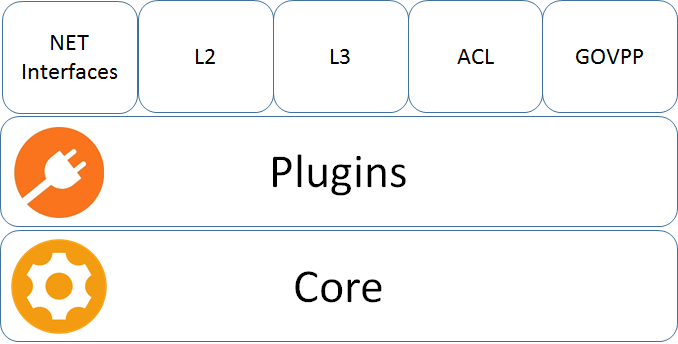
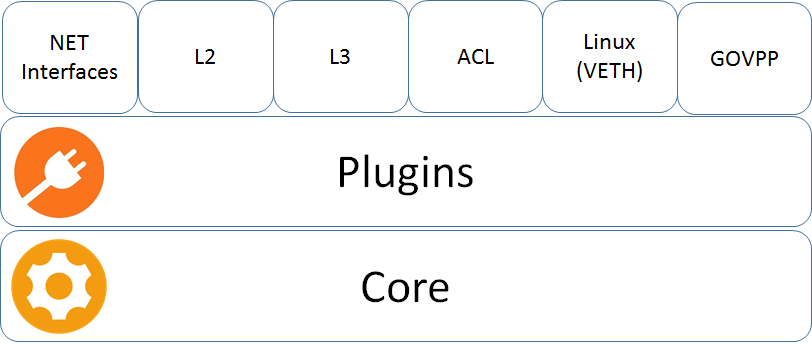
VPP Agent plugins - brief description

diff --git a/README.md b/README.md
@@ -16,11 +16,7 @@ If you are interested in contributing, please see the [contribution guidelines](
 
 # Architecture
 
-VPP Agent Plugins on top of cn-infra:
-
-![vpp agent plugins](vpp_agent_plugins.png "VPP Agent Plugins on top of cn-infra")
-
-10.000 feet architecture:
+## 10.000 feet architecture
 
 ![VPP agent 10.000 feet](vpp_agent_10K_feet.png "VPP Agent - 10.000 feet view on the architecture")
 
@@ -37,9 +33,19 @@ VPP Agent Plugins on top of cn-infra:
 * Non VPP VNF - non VPP containers can interact together with VPP containers (see below MEMIFs, VETH)
 * Messaging - AD-HOC events (e.g. link UP/Down)
  
-K8s integration:
+## VPP Agent Plugins on top of cn-infra:
+
+![vpp agent plugins](vpp_agent_plugins.png "VPP Agent Plugins on top of cn-infra")
+ 
+* NET Interface - Network interfaces configuration (Gigi ETH, MEMIF, AF_Packet, VXLAN, Loopback...)
+* L2 - Bridge Domains, FIBs...
+* L3 - IP Routes, VRFs...
+* ACL - configures VPP ACL Plugin
+* Linux (VETH) - configures Linux Virtual Ethernets
+ 
+## K8s integration
 
 ![K8s integration](k8s_deployment.png "VPP Agent - K8s integration")
 
-Contiv deployment:
+### Contiv deployment:
 TBD - in memory calls (not remote calls)
